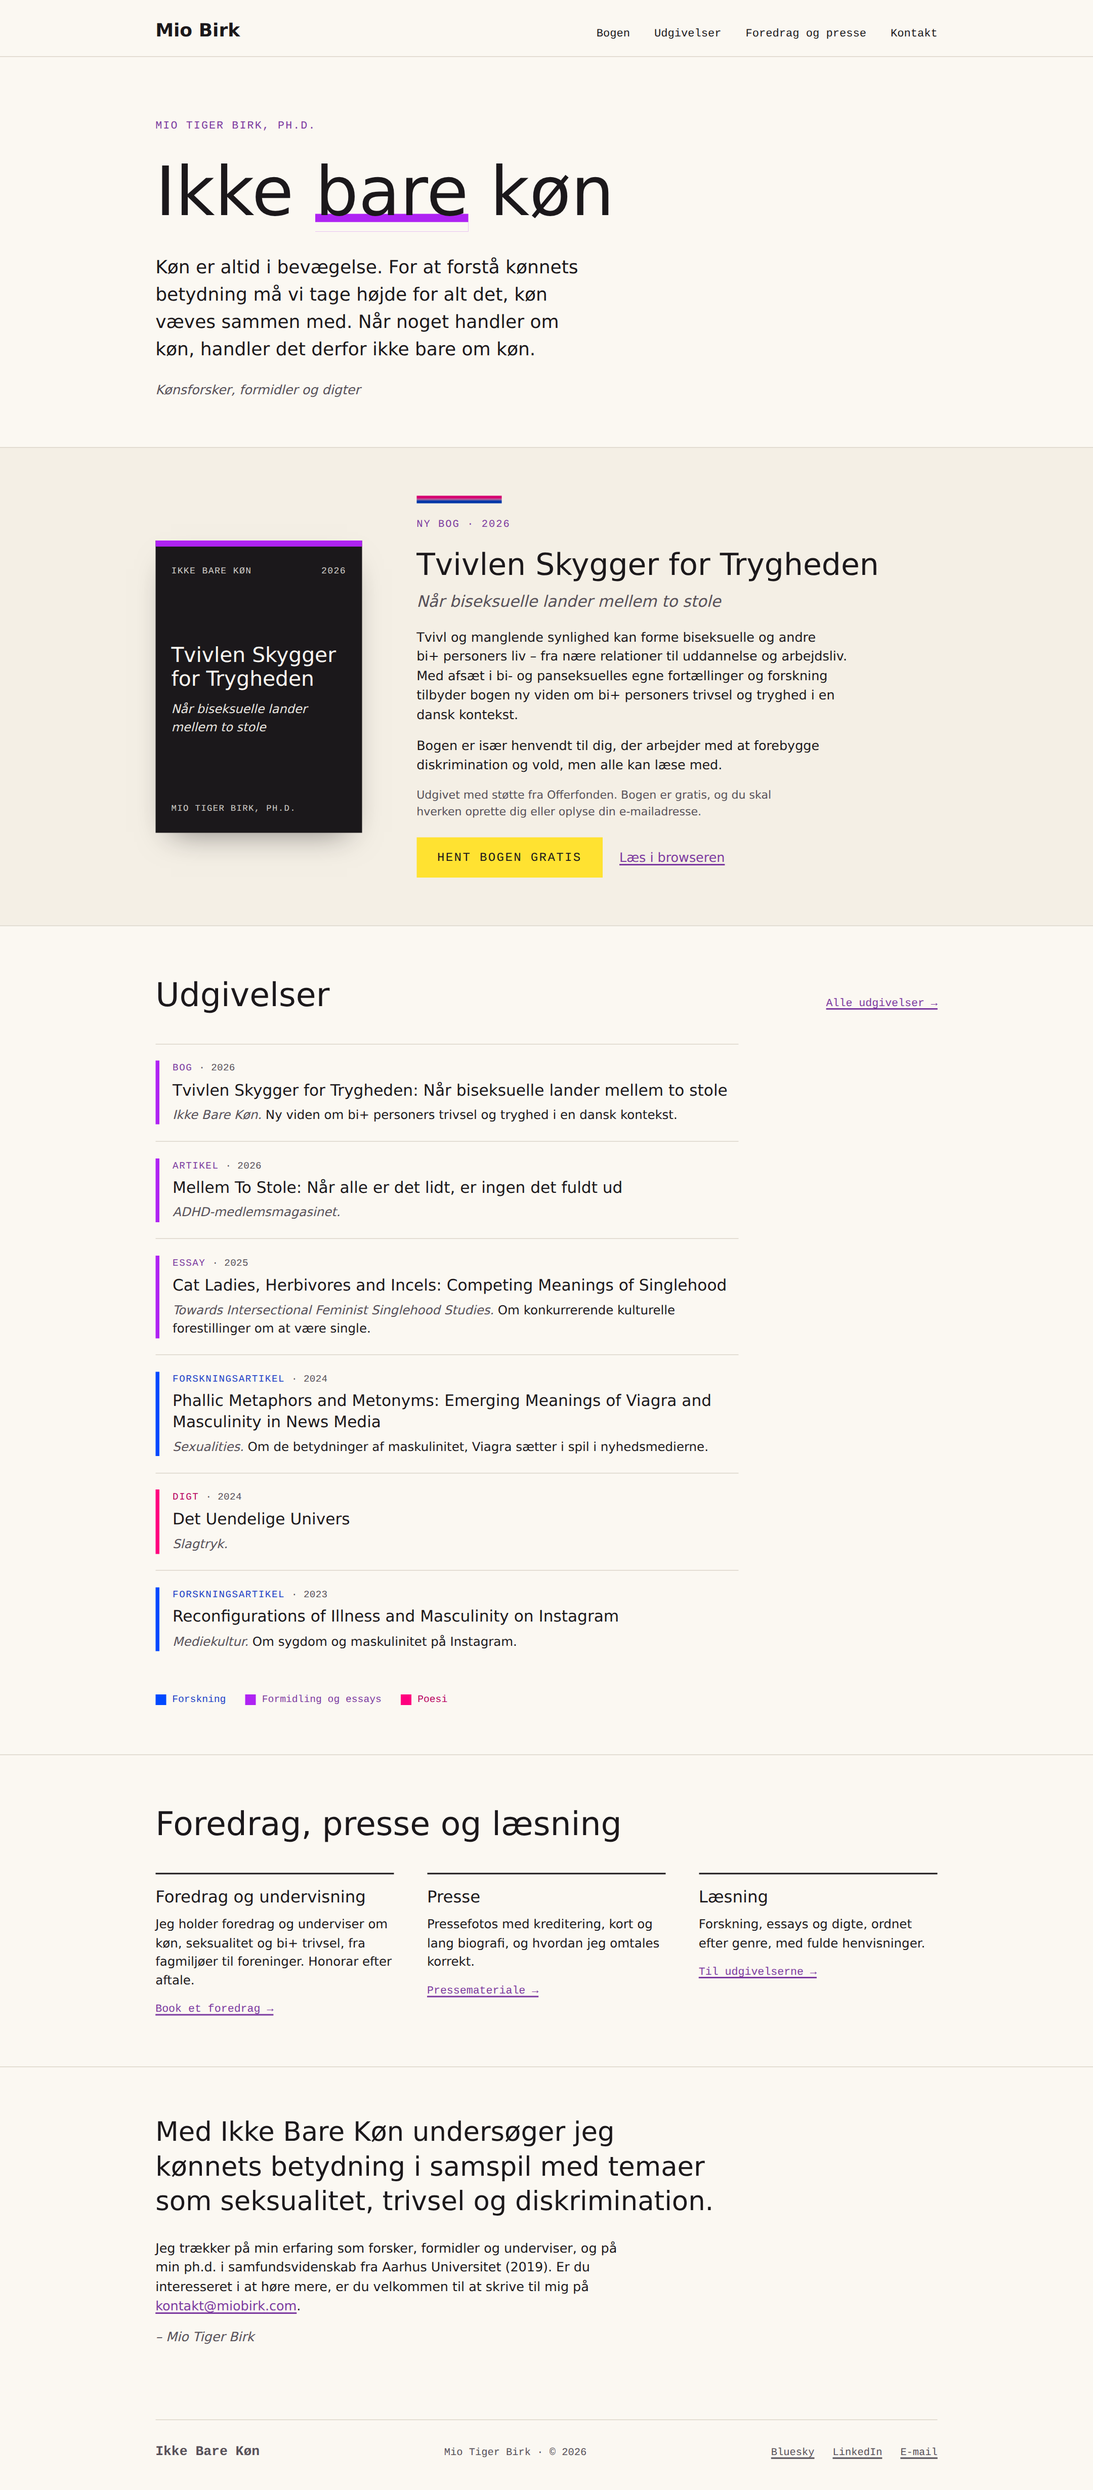
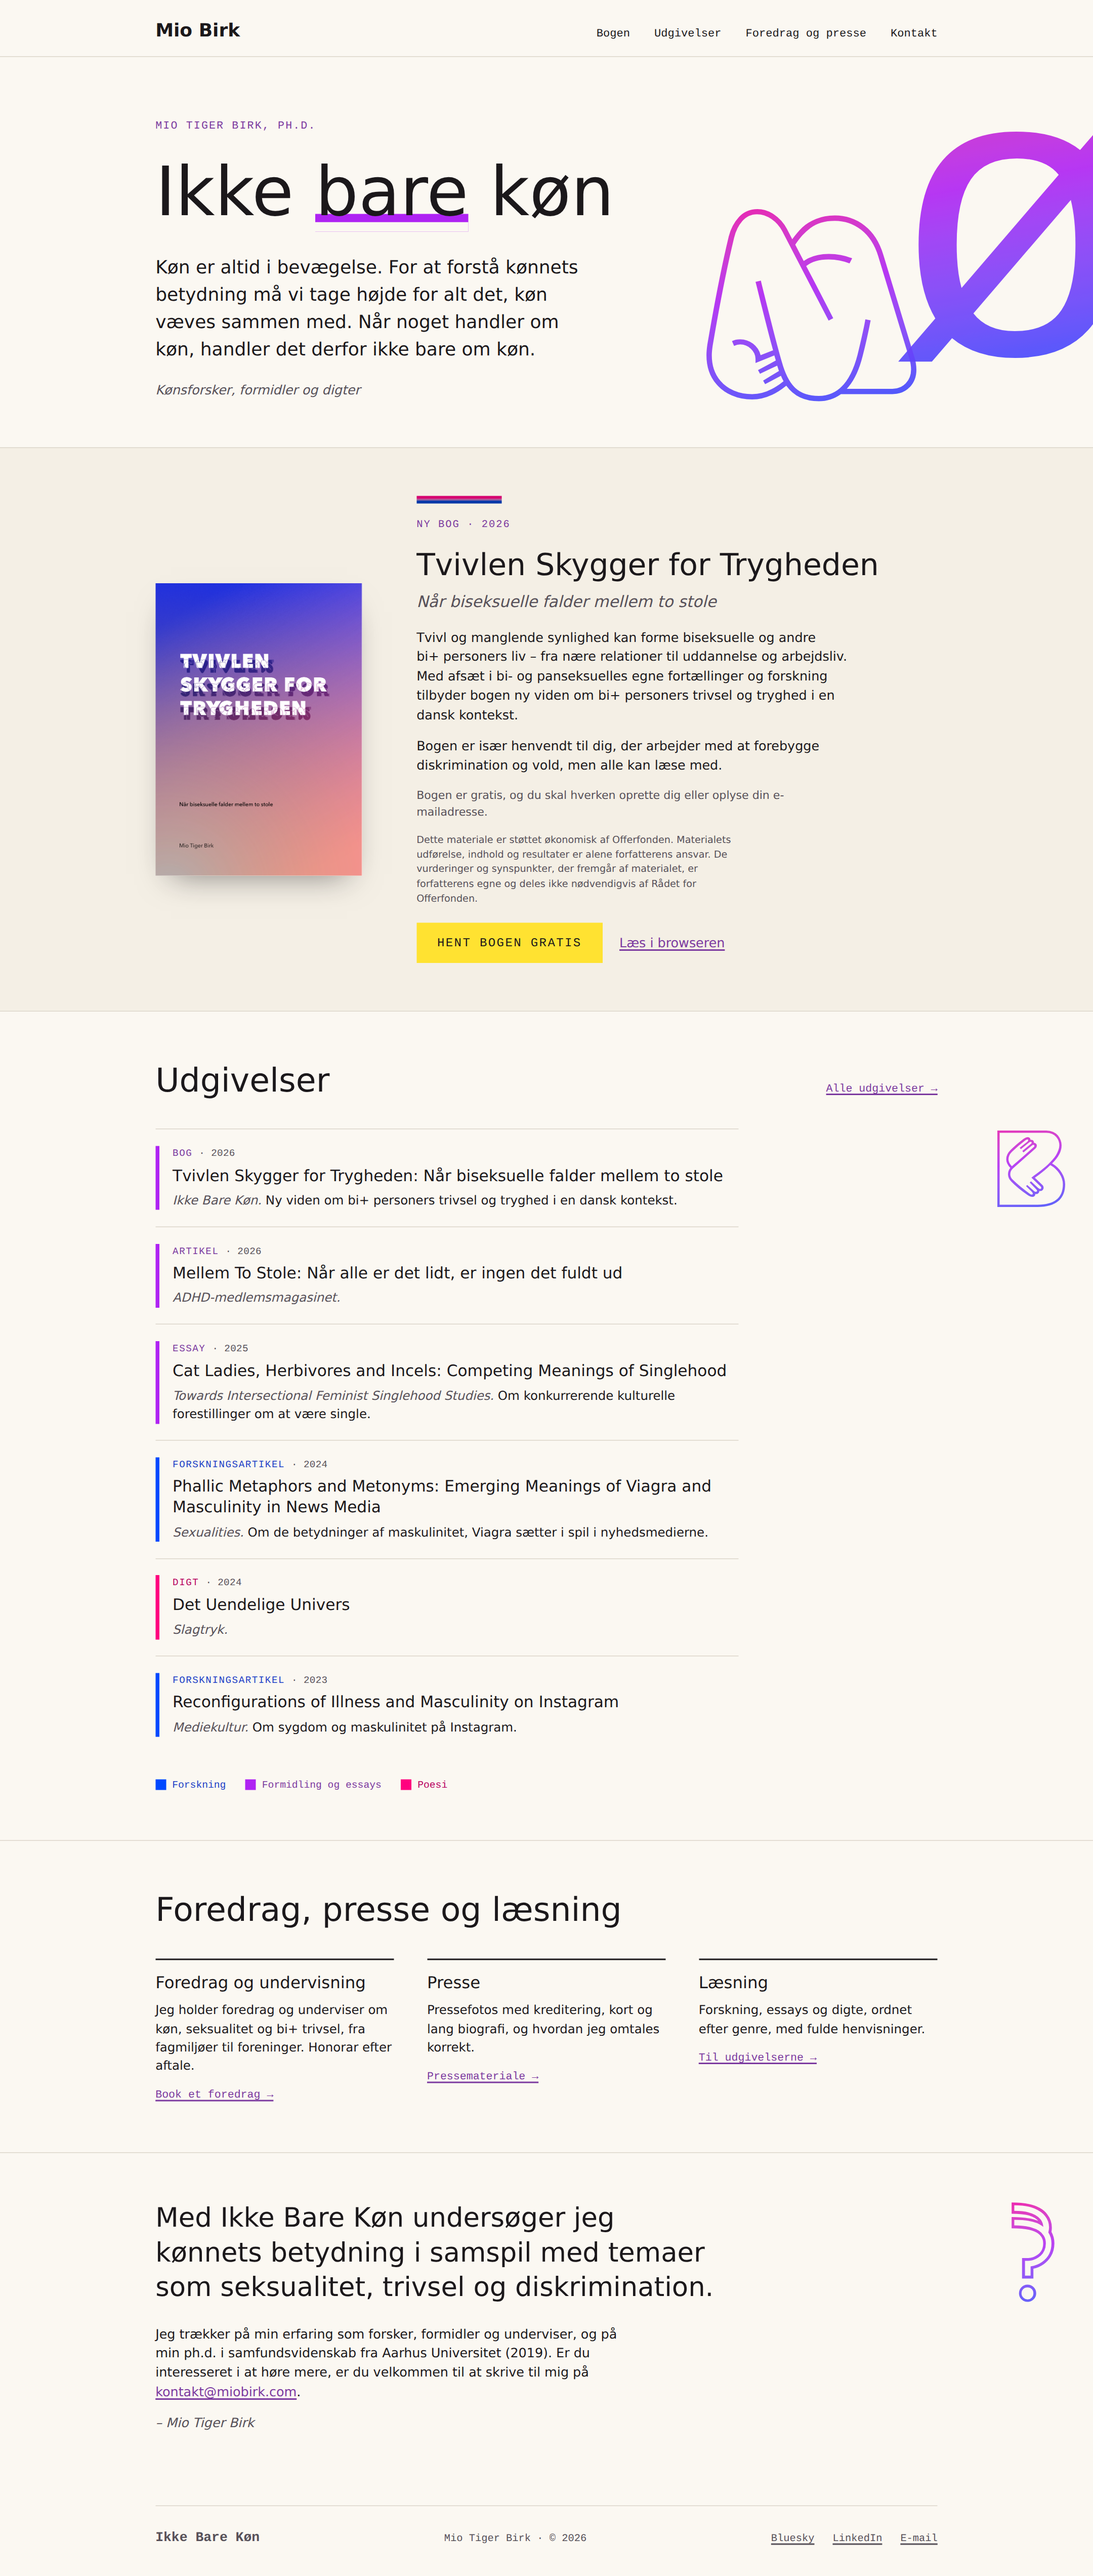
Use the real book cover and Typefesse vignettes from the book
The book PDF (its colophon credits design and layout to Ole Kristensen,
Den Frie Vilje) is set in Palatino, Avenir Next and Typefesse (Oceane
Juvin, Velvetyne, OFL), and uses Typefesse as its illustration system:
the cover title shadows itself in offset Typefesse over a bi-gradient,
and interior pages carry oversized cropped gradient glyphs as
full-page vignettes.

The mockup now follows the book instead of redesigning it: the real
cover, rendered from the PDF, replaces the CSS stand-in; Typefesse
Pleine and Claire-Obscure (woff2 vendored under design/assets/fonts/
with licence note) draw oversized overlapping background vignettes in
the hero and small margin vignettes beside Udgivelser and Om, filled
with the register-triad gradient. Vignettes are aria-hidden and drop
away on narrow viewports.

The book also corrects the record twice: the subtitle is "Naar
biseksuelle falder mellem to stole" (the site's list said "lander";
cover, title page and colophon all say "falder"), fixed throughout,
and the Offerfonden attribution formula is now quoted verbatim from
the colophon in the book section, closing the open question from the
round-3 critique.

Claude-Session: https://claude.ai/code/session_01J3ibStbM354Uyysr7SDB7m

diff --git a/design/directions/retning-7-overlappet.html b/design/directions/retning-7-overlappet.html
@@ -14,6 +14,11 @@
 <link rel="preconnect" href="https://fonts.gstatic.com" crossorigin>
 <link href="https://fonts.googleapis.com/css2?family=Space+Grotesk:wght@300..700&family=Space+Mono:ital,wght@0,400;0,700;1,400&display=swap" rel="stylesheet">
 <style>
+/* Typefesse (Océane Juvin, Velvetyne, OFL): the book's illustration layer,
+   carried onto the site as oversized cropped glyph vignettes in the book's
+   own pink-to-blue gradient. */
+@font-face{font-family:'Typefesse Pleine';src:url('../assets/fonts/typefesse-pleine.woff2') format('woff2');font-display:swap}
+@font-face{font-family:'Typefesse Claire-Obscure';src:url('../assets/fonts/typefesse-claire-obscure.woff2') format('woff2');font-display:swap}
 :root{
   --paper:#FBF8F2;
   --paper-deep:#F4EFE5;
@@ -66,6 +71,24 @@ a:focus-visible{outline:2.5px solid var(--ink);outline-offset:3px}
 .flagmark .s2{height:2px;background:var(--flag-lilla)}
 .flagmark .s3{height:4px;background:var(--flag-blaa)}
 
+/* Typefesse vignettes: oversized overlapping glyphs in the background,
+   plus small ones in the margins, as in the book's interior pages. */
+.vignette{
+  position:absolute;line-height:1;pointer-events:none;user-select:none;
+  background:linear-gradient(170deg,var(--rosa) 0%,var(--lilla) 48%,var(--blaa) 100%);
+  -webkit-background-clip:text;background-clip:text;color:transparent;
+}
+.v-pleine{font-family:'Typefesse Pleine',sans-serif}
+.v-claire{font-family:'Typefesse Claire-Obscure',sans-serif}
+.has-vignettes{position:relative;overflow:hidden}
+.hero .v1{font-size:clamp(18rem,42vw,34rem);top:-.18em;right:-4rem;opacity:.9}
+.hero .v2{font-size:clamp(12rem,26vw,21rem);top:.42em;right:14rem;opacity:.9}
+@media (max-width:56rem){.hero .v1{right:-8rem;opacity:.5}.hero .v2{display:none}}
+.side-vignette{font-size:9rem;opacity:.85}
+#udgivelser .side-vignette{top:8rem;right:2rem}
+#kontakt .side-vignette{top:2.5rem;right:3rem;font-size:11rem}
+@media (max-width:56rem){.side-vignette{display:none}}
+
 /* Masthead */
 header .bar{display:flex;justify-content:space-between;align-items:baseline;gap:1rem;flex-wrap:wrap;padding:1.4rem 0 1rem}
 .brand{font-weight:700;font-size:1.5rem;color:var(--ink);text-decoration:none;letter-spacing:0}
@@ -96,21 +119,16 @@ header{border-bottom:1px solid var(--rule)}
 .book{background:var(--paper-deep)}
 .book-grid{display:grid;grid-template-columns:minmax(13rem,17rem) 1fr;gap:clamp(2.2rem,5vw,4.5rem);align-items:center}
 @media (max-width:48rem){.book-grid{grid-template-columns:1fr;justify-items:start}}
-.cover{
-  aspect-ratio:21/29.7;width:100%;max-width:17rem;background:var(--ink);color:var(--paper);
-  display:flex;flex-direction:column;justify-content:space-between;padding:1.4rem 1.3rem;
-  border-top:8px solid var(--lilla);
+.cover-img{
+  display:block;width:100%;max-width:17rem;height:auto;
   box-shadow:0 18px 40px -20px rgba(27,24,27,.55);
 }
-.cover .ct{font-family:"Space Mono",monospace;font-size:.75rem;font-weight:400;letter-spacing:.08em;text-transform:uppercase;opacity:.8;display:flex;justify-content:space-between}
-.cover h3{font-weight:500;font-size:1.7rem;line-height:1.15;letter-spacing:0}
-.cover .cs{font-style:italic;font-size:1rem;margin-top:.7rem;opacity:.92}
-.cover .ca{font-family:"Space Mono",monospace;font-size:.72rem;font-weight:400;letter-spacing:.08em;text-transform:uppercase;opacity:.8}
 .book-text .tag{color:var(--lilla-tekst);font-family:"Space Mono",monospace;font-weight:400;font-size:.85rem;letter-spacing:.1em;text-transform:uppercase;margin-bottom:1rem}
 .book-text h3{font-weight:400;font-size:clamp(1.8rem,3.6vw,2.5rem);line-height:1.25;letter-spacing:0;margin-bottom:.5rem}
 .book-text .standfirst{font-style:italic;font-size:1.3rem;color:var(--ink-soft);margin-bottom:1.2rem}
 .book-text p{max-width:56ch;margin-bottom:1rem}
 .book-text .fine{font-size:.92rem;color:var(--ink-soft)}
+.book-text .fine.formula{font-size:.8rem;max-width:52ch}
 .actions{display:flex;flex-wrap:wrap;align-items:center;gap:.9rem 1.4rem;margin-top:1.4rem}
 .btn{
   display:inline-block;background:var(--gul);color:var(--ink);text-decoration:none;
@@ -189,7 +207,9 @@ footer .flinks{display:flex;gap:1.5rem}
 </header>
 
 <main id="indhold">
-  <section class="hero">
+  <section class="hero has-vignettes">
+    <span class="vignette v-pleine v1" aria-hidden="true">ø</span>
+    <span class="vignette v-claire v2" aria-hidden="true">m</span>
     <div class="wrap">
       <p class="kicker">Mio Tiger Birk, ph.d.</p>
       <h1>Ikke <span class="u">bare</span> køn</h1>
@@ -203,19 +223,13 @@ footer .flinks{display:flex;gap:1.5rem}
   <section class="sec book" id="bog" aria-labelledby="bog-h">
     <div class="wrap">
       <div class="book-grid">
-        <div class="cover" role="img" aria-label="Bogomslag: Tvivlen Skygger for Trygheden">
-          <p class="ct"><span>Ikke Bare Køn</span><span>2026</span></p>
-          <div>
-            <h3 aria-hidden="true">Tvivlen Skygger for Trygheden</h3>
-            <p class="cs" aria-hidden="true">Når biseksuelle lander mellem to stole</p>
-          </div>
-          <p class="ca" aria-hidden="true">Mio Tiger Birk, ph.d.</p>
-        </div>
+        <img class="cover-img" src="../assets/omslag.png"
+             alt="Bogomslag: Tvivlen Skygger for Trygheden – Når biseksuelle falder mellem to stole. Mio Tiger Birk.">
         <div class="book-text">
           <div class="flagmark" aria-hidden="true"><i class="s1"></i><i class="s2"></i><i class="s3"></i></div>
           <p class="tag">Ny bog · 2026</p>
           <h3 id="bog-h">Tvivlen Skygger for Trygheden</h3>
-          <p class="standfirst">Når biseksuelle lander mellem to stole</p>
+          <p class="standfirst">Når biseksuelle falder mellem to stole</p>
           <p>Tvivl og manglende synlighed kan forme biseksuelle og andre
           bi+&nbsp;personers liv – fra nære relationer til uddannelse og
           arbejdsliv. Med afsæt i bi- og panseksuelles egne fortællinger og
@@ -223,9 +237,13 @@ footer .flinks{display:flex;gap:1.5rem}
           tryghed i en dansk kontekst.</p>
           <p>Bogen er især henvendt til dig, der arbejder med at forebygge
           diskrimination og vold, men alle kan læse med.</p>
-          <p class="fine">Udgivet med støtte fra Offerfonden. Bogen er
-          gratis, og du skal hverken oprette dig eller oplyse din
-          e-mailadresse.</p>
+          <p class="fine">Bogen er gratis, og du skal hverken oprette dig
+          eller oplyse din e-mailadresse.</p>
+          <p class="fine formula">Dette materiale er støttet økonomisk af
+          Offerfonden. Materialets udførelse, indhold og resultater er alene
+          forfatterens ansvar. De vurderinger og synspunkter, der fremgår af
+          materialet, er forfatterens egne og deles ikke nødvendigvis af
+          Rådet for Offerfonden.</p>
           <div class="actions">
             <a class="btn" href="#">Hent bogen gratis</a>
             <a href="#">Læs i browseren</a>
@@ -235,7 +253,8 @@ footer .flinks{display:flex;gap:1.5rem}
     </div>
   </section>
 
-  <section class="sec" id="udgivelser" aria-labelledby="pub-h">
+  <section class="sec has-vignettes" id="udgivelser" aria-labelledby="pub-h">
+    <span class="vignette v-claire side-vignette" aria-hidden="true">b</span>
     <div class="wrap">
       <div class="sec-head">
         <h2 id="pub-h">Udgivelser</h2>
@@ -244,7 +263,7 @@ footer .flinks{display:flex;gap:1.5rem}
       <ul class="toc">
         <li class="r-lilla">
           <p class="t-meta">Bog <span class="yr">· 2026</span></p>
-          <h3><a href="#">Tvivlen Skygger for Trygheden: Når biseksuelle lander mellem to stole</a></h3>
+          <h3><a href="#">Tvivlen Skygger for Trygheden: Når biseksuelle falder mellem to stole</a></h3>
           <p class="t-sub"><span class="venue">Ikke Bare Køn.</span> Ny viden om bi+ personers trivsel og tryghed i en dansk kontekst.</p>
         </li>
         <li class="r-lilla">
@@ -309,7 +328,8 @@ footer .flinks{display:flex;gap:1.5rem}
     </div>
   </section>
 
-  <section class="sec" id="kontakt" aria-labelledby="om-h">
+  <section class="sec has-vignettes" id="kontakt" aria-labelledby="om-h">
+    <span class="vignette v-claire side-vignette" aria-hidden="true">?</span>
     <div class="wrap">
       <div class="om">
         <h2 id="om-h" style="position:absolute;left:-9999px">Om og kontakt</h2>

diff --git a/design/TYPOGRAPHY-COLOUR.md b/design/TYPOGRAPHY-COLOUR.md
@@ -130,3 +130,30 @@ P3 color(display-p3 1 .89 .35); ink on it measures 12.6:1. Fraunces and
 Newsreader are retired from the direction; Space Grotesk and Space Mono
 are both OFL and self-hosted via @fontsource in production. The earlier
 research on Fraunces/Newsreader stands as record of the road not taken.
+
+## The illustration layer (from the book itself, 2026-07-11)
+
+The book PDF (designed by Ole, per its colophon) settles the illustration
+question. It is set in Palatino, Avenir Next, and Typefesse (Océane Juvin,
+Velvetyne Type Foundry, OFL), and Typefesse is its illustration system:
+the cover title shadows itself in offset Typefesse over a bi-gradient, and
+interior pages carry oversized, cropped Typefesse glyphs stroked in a
+pink-to-purple-to-blue gradient as full-page vignettes.
+
+The site copies that treatment rather than inventing one: the real cover
+(rendered from the PDF, design/assets/omslag.png) replaces the CSS
+stand-in, and Typefesse Pleine and Claire-Obscure (woff2 in
+design/assets/fonts/, OFL, from velvetyne.fr) provide oversized
+overlapping background vignettes in the hero and small margin vignettes
+beside sections, filled with the triad gradient
+(rosa 0%, lilla 48%, blaa 100%). Vignettes are aria-hidden, pointer-inert,
+and hidden on narrow viewports where they would sit behind text.
+
+Two corrections the book forced: the subtitle is "Når biseksuelle falder
+mellem to stole" (the site's own list had said "lander"; the cover, title
+page and colophon all say "falder", and the book governs), and the
+Offerfonden formula is now known verbatim from the colophon and appears in
+the book section: "Dette materiale er støttet økonomisk af Offerfonden.
+Materialets udførelse, indhold og resultater er alene forfatterens ansvar.
+De vurderinger og synspunkter, der fremgår af materialet, er forfatterens
+egne og deles ikke nødvendigvis af Rådet for Offerfonden."

diff --git a/design/assets/fonts/README.md b/design/assets/fonts/README.md
@@ -1,0 +1,8 @@
+# Typefesse
+
+Typefesse Claire-Obscure and Typefesse Pleine by Océane Juvin, published by
+Velvetyne Type Foundry under the SIL Open Font License. Downloaded from
+velvetyne.fr/fonts/typefesse. These are the woff2 web cuts; production should
+vendor the full release (including the OFL licence file) from the source
+repository. The typeface is the illustration layer of Mio's book (see the
+book's colophon) and of the site.
